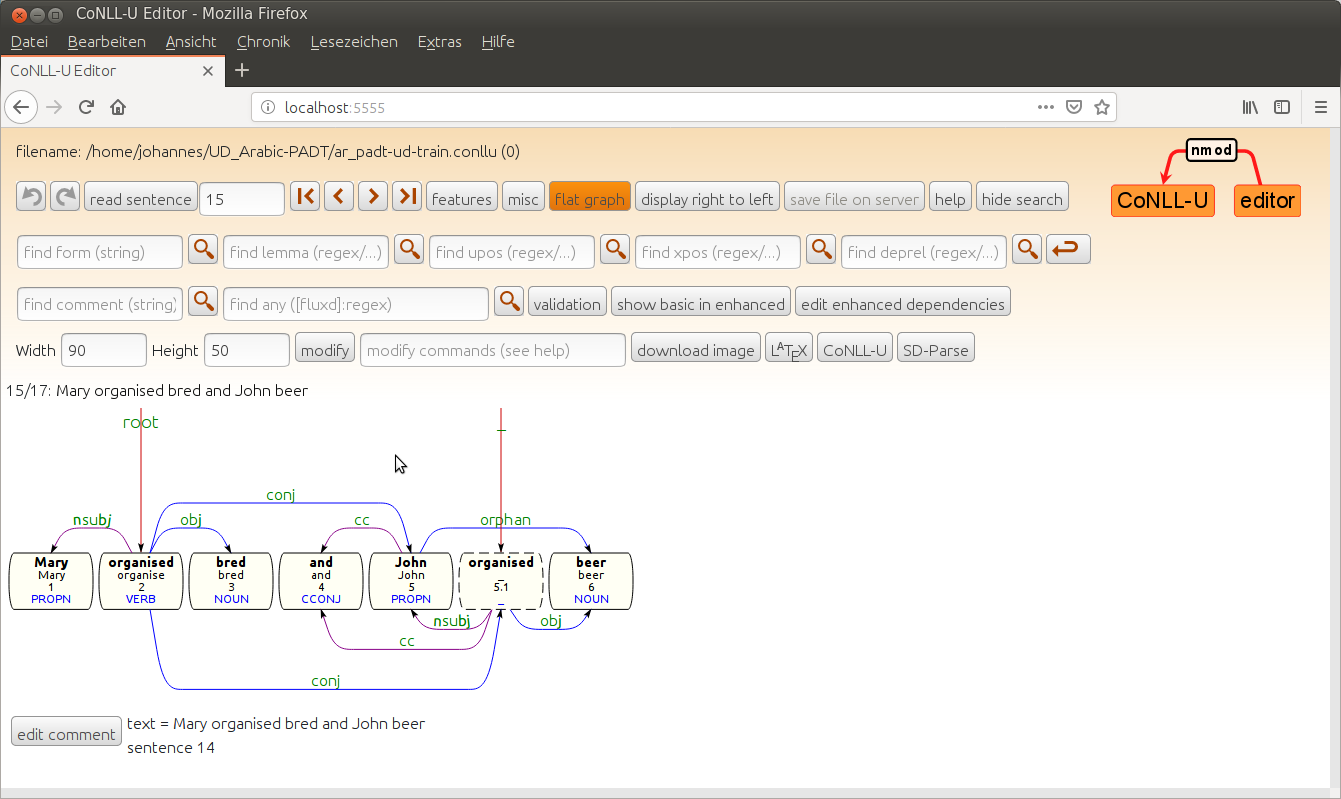
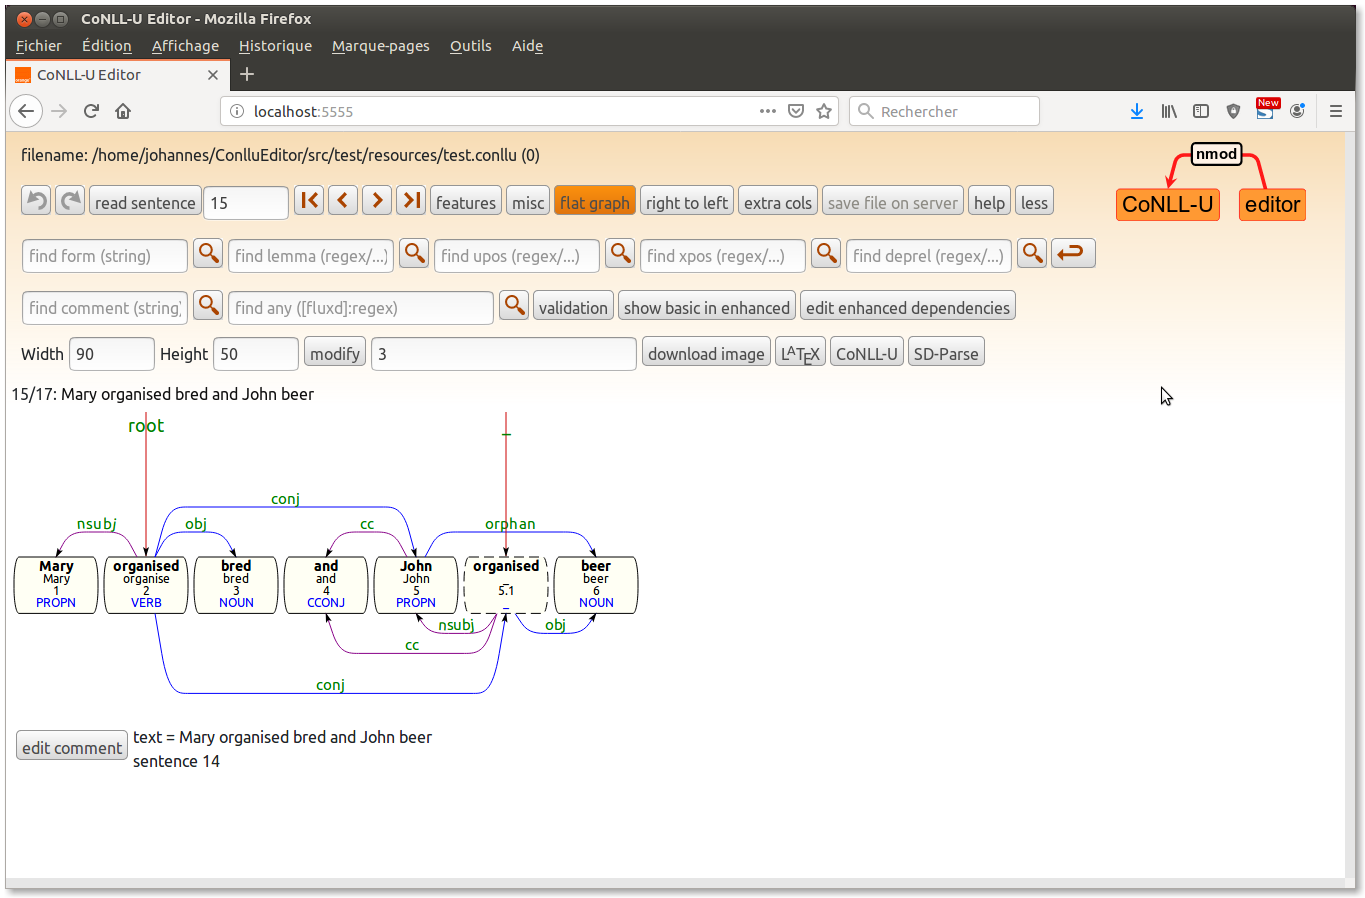
documentation updated

diff --git a/gui/word.js b/gui/word.js
@@ -1,21 +1,21 @@
 /** This library is under the 3-Clause BSD License
- 
+
  Copyright (c) 2018, Orange S.A.
- 
+
  Redistribution and use in source and binary forms, with or without modification,
  are permitted provided that the following conditions are met:
- 
+
  1. Redistributions of source code must retain the above copyright notice,
  this list of conditions and the following disclaimer.
- 
+
  2. Redistributions in binary form must reproduce the above copyright notice,
  this list of conditions and the following disclaimer in the documentation
  and/or other materials provided with the distribution.
- 
+
  3. Neither the name of the copyright holder nor the names of its contributors
  may be used to endorse or promote products derived from this software without
  specific prior written permission.
- 
+
  THIS SOFTWARE IS PROVIDED BY THE COPYRIGHT HOLDERS AND CONTRIBUTORS "AS IS"
  AND ANY EXPRESS OR IMPLIED WARRANTIES, INCLUDING, BUT NOT LIMITED TO,
  THE IMPLIED WARRANTIES OF MERCHANTABILITY AND FITNESS FOR A PARTICULAR PURPOSE
@@ -26,7 +26,7 @@
  ON ANY THEORY OF LIABILITY, WHETHER IN CONTRACT, STRICT LIABILITY, OR TORT
  (INCLUDING NEGLIGENCE OR OTHERWISE) ARISING IN ANY WAY OUT OF THE USE OF
  THIS SOFTWARE, EVEN IF ADVISED OF THE POSSIBILITY OF SUCH DAMAGE.
- 
+
  @author Johannes Heinecke
  @version 1.13.0 as of 3rd September 2019
  */
@@ -419,7 +419,7 @@ function insertExtracolumns(svg, curid, item, level, indexshift, sentencelength 
     }
     /*
      // show word ID
-     
+
      var idtext = document.createElementNS(svgNS, "text");
      idtext.setAttribute("id", "id" + curid + "_" + item.id);
      idtext.setAttribute("font-size", "10");
@@ -430,7 +430,7 @@ function insertExtracolumns(svg, curid, item, level, indexshift, sentencelength 
      idtext.textContent = item.id;
      svg.appendChild(idtext);
      //level += vertdiff;
-     
+
      // vertical line between tree and bottom word
      var path = document.createElementNS(svgNS, "path");
      var pathvar = "pathb" + curid + "_" + item.id + "_" + level;
@@ -442,8 +442,8 @@ function insertExtracolumns(svg, curid, item, level, indexshift, sentencelength 
      path.setAttribute("fill", "none");
      path.setAttribute("d", "M " + x + " " + item.yy + " L " + x + " " + (svgmaxy - 15));
      svg.appendChild(path);
-     
-     
+
+
      // multi word entites
      if (item.mwe != undefined) {
      var wordy = svgmaxy - 30;

diff --git a/gui/index.html b/gui/index.html
@@ -102,7 +102,7 @@
                         <button class="mycheck mybutton" id="flat2">flat graph</button>
                         <button class="mycheck mybutton" id="r2l" title="activate for sentennces in Arabic or Hebrew script">right to left</button>
                         <button class="mycheck mybutton" id="extracols" title="show contents of columns > 10">extra cols</button>
-                        
+
                         <button class ="editbuttons mybutton editmode" id="save">save file on server</button>
                         <button type="button" class="help mybutton" data-toggle="modal" data-target="#helpModal">help</button>
 
@@ -276,13 +276,15 @@
                                 <td>delete an enhanced dependency</td>
                         </table>
 
+                        <h3>Non standard columns (from column 11 onwards)</h3>
+                        If the conllu-file contains non standard columns (from position 11 onwards), the contents of these
+                        columns can be displayed by activating the <span class="buttondoc">extra cols</span> button.
+
                         <h2>Run a validator</h2>
                         Any programme which can validate a file in CoNLL-U can be used. Specify the programm with all
                         needed options and <tt>{FILE}</tt> at the position of the file to be validated in a file like
-                        <pre>
-                            script: /path/to/tools/validate.py --lang cy --max-err 0 --level 5 {FILE}
-                        </pre>
-                        and give this file as option to the server.
+                        <br><tt>&nbsp;   script: /path/to/UDtools/tools/validate.py --lang cy --max-err 0 --level 5 {FILE}</tt>
+                        <br>and give this file as option to the server.
                         When hitting the <span class="buttondoc">validate</span> button, the validation programme
                         is run on the current sentence.
 

diff --git a/gui/dependency-flat.js b/gui/dependency-flat.js
@@ -266,7 +266,19 @@ function insertWord(svg, curid, item, headpos, level, sentencelength, use_deprel
 }
 
 
-
+/** produce a nice dependency relation for the flat view. The height is provided by the server
+ *
+ * @param {type} svg  the svg object to place the arc in
+ * @param {type} item the dependent word
+ * @param {type} headpos the position of the head (horizontal, in word units, not pixels)
+ * @param {type} deprel  the dependency label
+ * @param {type} depx    the x axis pixel of the arc at the dependent word
+ * @param {type} sentencelength
+ * @param {type} basey
+ * @param {type} above
+ * @param {type} use_deprel_as_type
+ * @return {undefined}
+ */
 function makeDep(svg, item, headpos, deprel, depx, sentencelength, basey, above, use_deprel_as_type) {
     var headx = headpos * hor - hor/2;
     var headbeforedep = (headpos < item.position);

diff --git a/README.md b/README.md
@@ -12,6 +12,7 @@ The editor provides the following functionalities:
 * join/split sentences  (to correct tokenization errors)
 * undo/redo (partially)
 * search: forms, lemmas, UPOS, XPOS, deprels and comments, sequences of any of these
+* displays non-CoNLL-U columns (from column 11 onwards)
 * runs validation script on sentence (CoNLL-U format)
 * git support
 * export of dependency graphs as svg or LaTeX (for the [tikz-dependency](https://ctan.org/pkg/tikz-dependency) package or 
@@ -139,7 +140,7 @@ Point your navigator  to `http://localhost:8888` .
 This option can help to speed up the server when editing very large files, since writing the file after each edit takes a while,
 especially if the file is on a network drive.
 * `--relax` accepts some formal errors in the CoNLL-U file and corrects them (empty column instead of `_`, invalid head id set to 0)
-* `--noedit` deactivates editing, useful to browse an existing treebank
+* `--noedit` deactivates editing, useful to browse an existing treebank and to avoid accidental errors.
 * `--reinit` (implies `--noedit`) reloads the file at each navigation (in order to browse a file which is being modified by someone else)
 
 # Editing
@@ -151,7 +152,7 @@ An edit window opens to enter the relation a name. Existing relations can be ren
 Clicking twice on a word deletes its eventual dependency relation and makes it root.
 To edit form, lemma etc. CTRL-click or doubleclick on the word. For more help use the `Help` button.
 
-The sentence is shown as a tree or as a flat graph, morphological features can be shown or hidden with the `features` button,
+The sentence is shown as a dependency tree or as a flat (“dependency hedge”) graph, morphological features can be shown or hidden with the `features` button,
 information of the MISC column can be shown with the `misc` button.
 multiword tokens (having `n-m` ids) are marked by a grey line spanning the multiword expression.
 If any UPOS/XPOS/deprel is not in the validation lists (specified with the `--UPOS` etc options)
@@ -207,6 +208,16 @@ clicking on words creates enhanced dependency relations. Click on the dependency
 delete the enhanced dependency relation.
 Alternatively, enhanced dependenclies can be edited manually via the word edit menu.
 
+## Other annotation
+Even though, the CoNLL-U standard defines only 10 columns, columns beyond the 10th (MISC) column are conserved when editing such files.
+They can be displayed in both modes (tree/flat) if the `extra cols` button is activated, but not (yet) be edited.
+The values in these columns are not interpreted (for instance BIO markings), theyr are just shown.
+
+![extra columns in tree view](doc/tree_extracols.png)
+
+
+![extra columns in graph view](doc/graph_extracols.png)
+
 # Multiuser/save/git
 The ConlluEditor can be used by multiple annotators at the time, provided that **no sentence is edited by more than one person at a time**.
 To be on the safe side, start a server for every annotator on a different port/machine.
@@ -238,6 +249,7 @@ the enhanced dependency field must contain one `head:deprel` pair per line (or `
 
 # Todo list
 * be able to read/write CoNLL-U plus (.conllp) files [http://universaldependencies.org/ext-format.html]
+* edit columns from column 11 onwards
 * better support for empty nodes
 * rewrite ConllWord/ConllSentence classes from scratch
 * use list (made from UD annotation guidelines) to warn about invalid relations (e.g. _case_ or _aux_ relations with further dependants)
